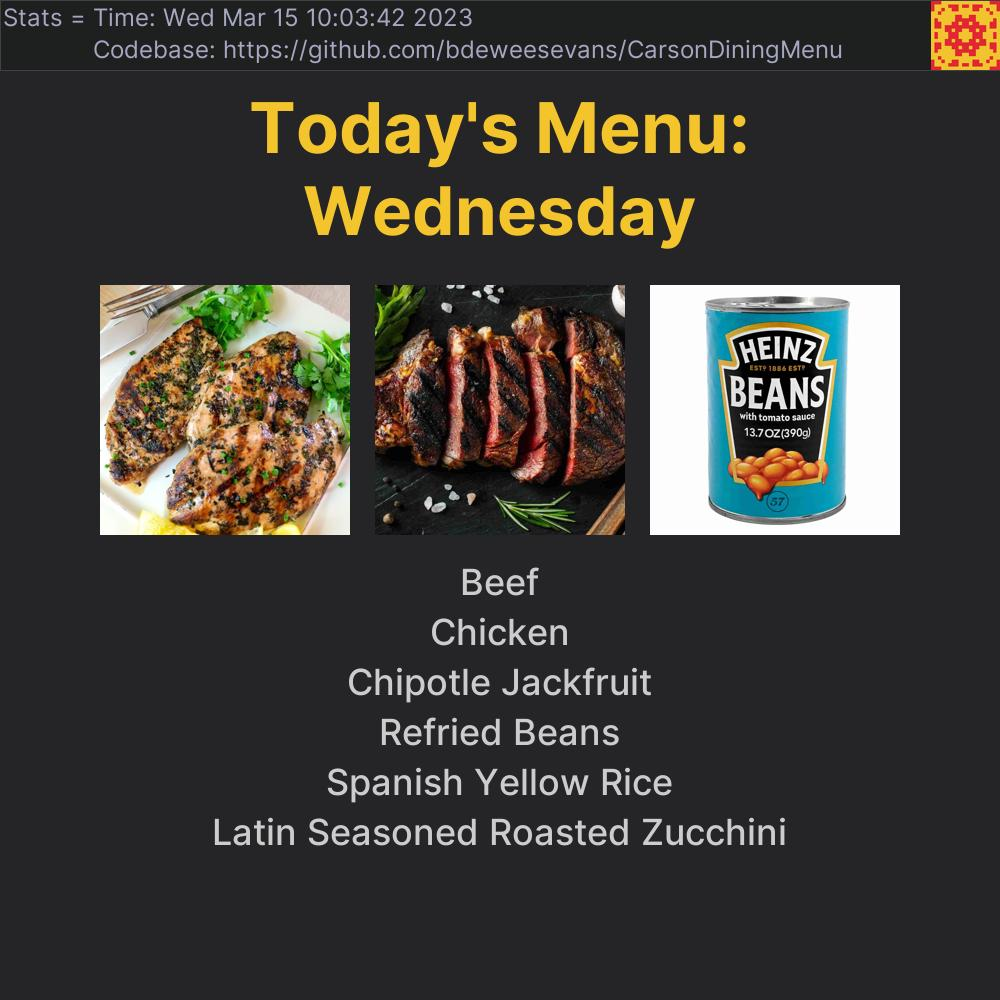
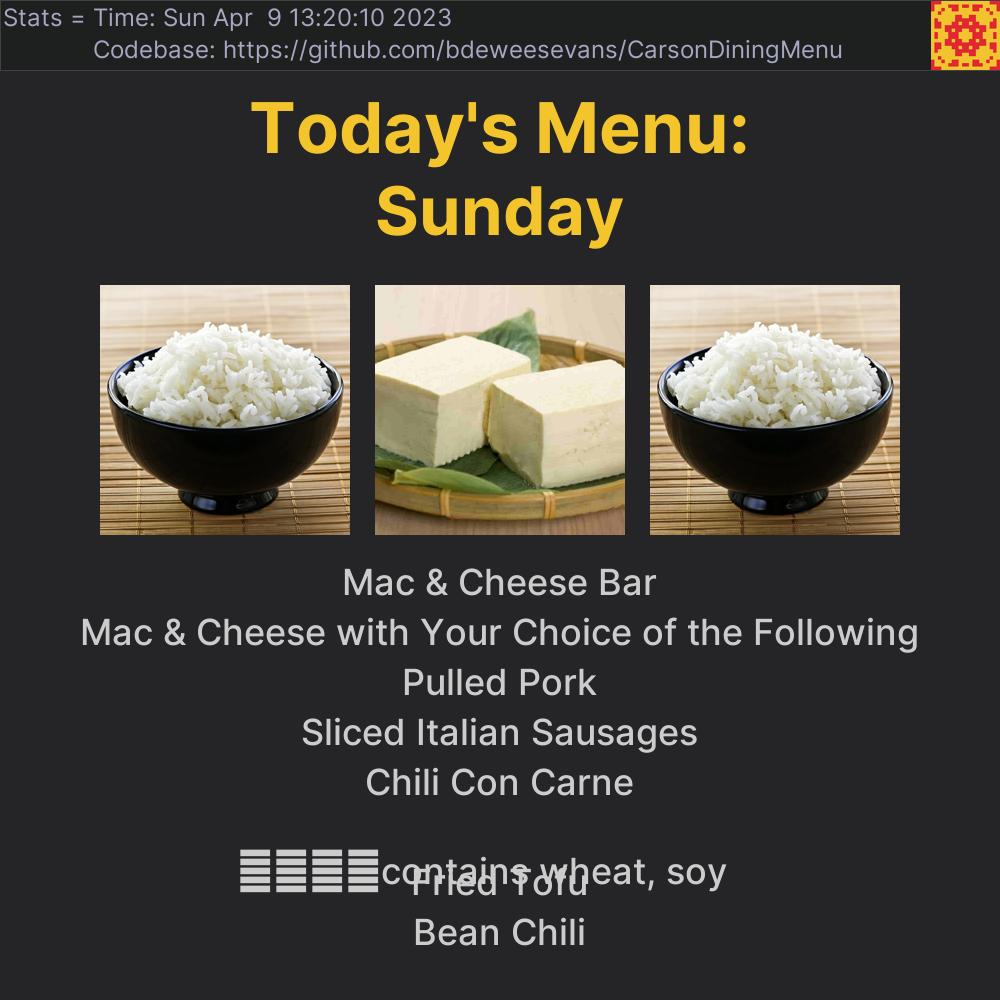
dealing w/ 'no data provided' img generation

Changed region(s): [[0.062, 0.279, 0.93, 0.961], [0.31, 0.186, 0.713, 0.248], [0.155, 0.0, 0.465, 0.031]]

diff --git a/MenuPuller.py b/MenuPuller.py
@@ -27,38 +27,44 @@ def dinner_scraper():
 
     # if statement to ensure dinner category exists
     last_category = tree.xpath(f'/html/body/div[2]/div[4]/div[2]/div/div[2]/div/div/div[1]/div[2]/div/div/ul/li[{counter}]/a/text()')
-    if ((last_category[0]) == 'Dinner'):
-        # Feeds parser the path.
-        dinner_menu = soup.select(f'#block-views-fe66ae869509158158420587268374be > div > div > div.view-content > div:nth-child({counter})')
-        rawHTML = str(dinner_menu[0])
+    if len(last_category)==1:
+        if ((last_category[0]) == 'Dinner'):
+            # Feeds parser the path.
+            dinner_menu = soup.select(f'#block-views-fe66ae869509158158420587268374be > div > div > div.view-content > div:nth-child({counter})')
+            rawHTML = str(dinner_menu[0])
 
-        # Splits and isolates title names. (Unused)
-        splitTitles = rawHTML.split("</p>")
-        titles = []
-        for splitTitle in splitTitles:
-            arr = splitTitle.split(">")
-            elem = arr[len(arr) - 1]
-            if (len(elem) > 0):
-                titles.append(elem)
+            # Splits and isolates title names. (Unused)
+            splitTitles = rawHTML.split("</p>")
+            titles = []
+            for splitTitle in splitTitles:
+                arr = splitTitle.split(">")
+                elem = arr[len(arr) - 1]
+                if (len(elem) > 0):
+                    titles.append(elem)
 
-        # Splits and isolates food names.
-        splitFoods = rawHTML.split("</strong>")
-        foods = []
-        for splitFood in splitFoods:
-            arr = splitFood.split(">")
-            elem = arr[len(arr) - 1]
-            if (len(elem) > 0):
-                foods.append(elem)
+            # Splits and isolates food names.
+            splitFoods = rawHTML.split("</strong>")
+            foods = []
+            for splitFood in splitFoods:
+                arr = splitFood.split(">")
+                elem = arr[len(arr) - 1]
+                if (len(elem) > 0):
+                    foods.append(elem)
+            
+            # Resolves '&amp;' issue.
+            for i in range(len(foods)):
+                foods[i] = foods[i].replace('amp;','')
+            for i in range(len(titles)):
+                titles[i] = titles[i].replace('amp;','')
+
+            # Final lines
+            dinner_validity = True
+            return foods, titles, dinner_validity
         
-        # Resolves '&amp;' issue.
-        for i in range(len(foods)):
-            foods[i] = foods[i].replace('amp;','')
-        for i in range(len(titles)):
-            titles[i] = titles[i].replace('amp;','')
-
-        # Final lines
-        dinner_validity = True
-        return foods, titles, dinner_validity
+        else:
+            foods, titles = [], []
+            dinner_validity = False
+            return foods, titles, dinner_validity
     else:
         foods, titles = [], []
         dinner_validity = False

diff --git a/FlickrAPI.py b/FlickrAPI.py
@@ -18,11 +18,12 @@ if (os.path.getsize("Auth.txt") == 0):
     a.save('Auth.txt')  # Populates file
     print('Oauth info has been written to file for later reference.')
 
+# Authorizes the session with each run.
+flickr_api.set_auth_handler('Auth.txt')
+print('Flickr Session: Authorized')
+
 # Function uploads photo to Flickr and returns link.
 def uploadToFlickr():
-    # Authorizes the session with each run.
-    flickr_api.set_auth_handler('Auth.txt')
-    print('Flickr Session: Authorized')
 
     # Uploads Image
     uploaded_image = flickr_api.upload(photo_file = 'assets/post_images/image.jpg', title='Auto-upload.', description=f'Daily Dinner Menu for Carson Dining Hall, University of Oregon.\nTime of Upload: {str(time.ctime())}', is_public = '1', hidden = '2')

diff --git a/InstagramAPI.py b/InstagramAPI.py
@@ -13,6 +13,9 @@ def postInstagramImage(flickr_image_link, menu_titles):
     dt = datetime.datetime.now()
     day = dt.weekday()
 
+    if len(menu_titles) == 0:
+        menu_titles = 'N/A','N/A'
+
     # Creates post object
     image_location_1 = flickr_image_link
     post_url = 'https://graph.facebook.com/v16.0/{}/media'.format(ig_user_id)

diff --git a/Main.py b/Main.py
@@ -27,4 +27,4 @@ def main():
     print('---Execution Complete.---')
 
 # Uncomment this line to run this file manually.
-#main()
+main()
